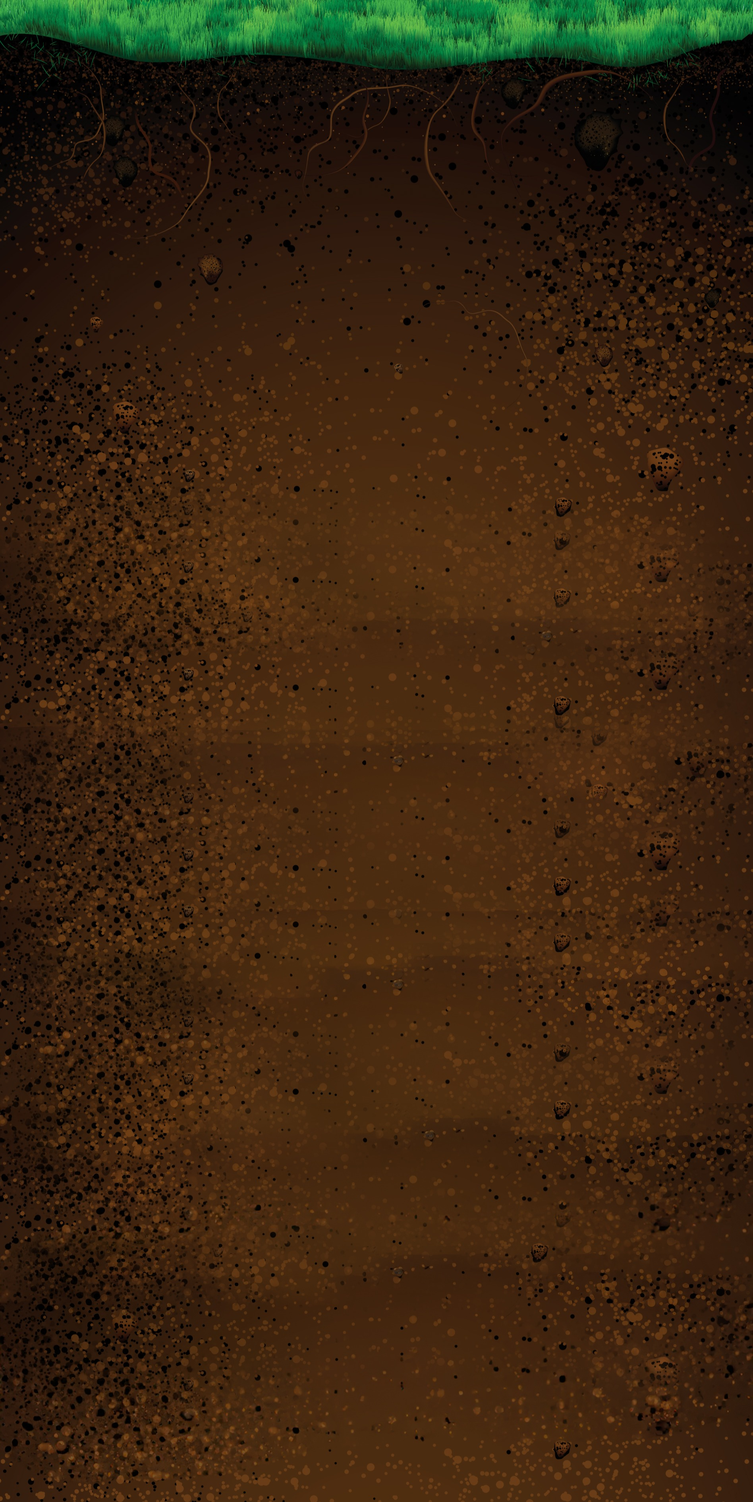
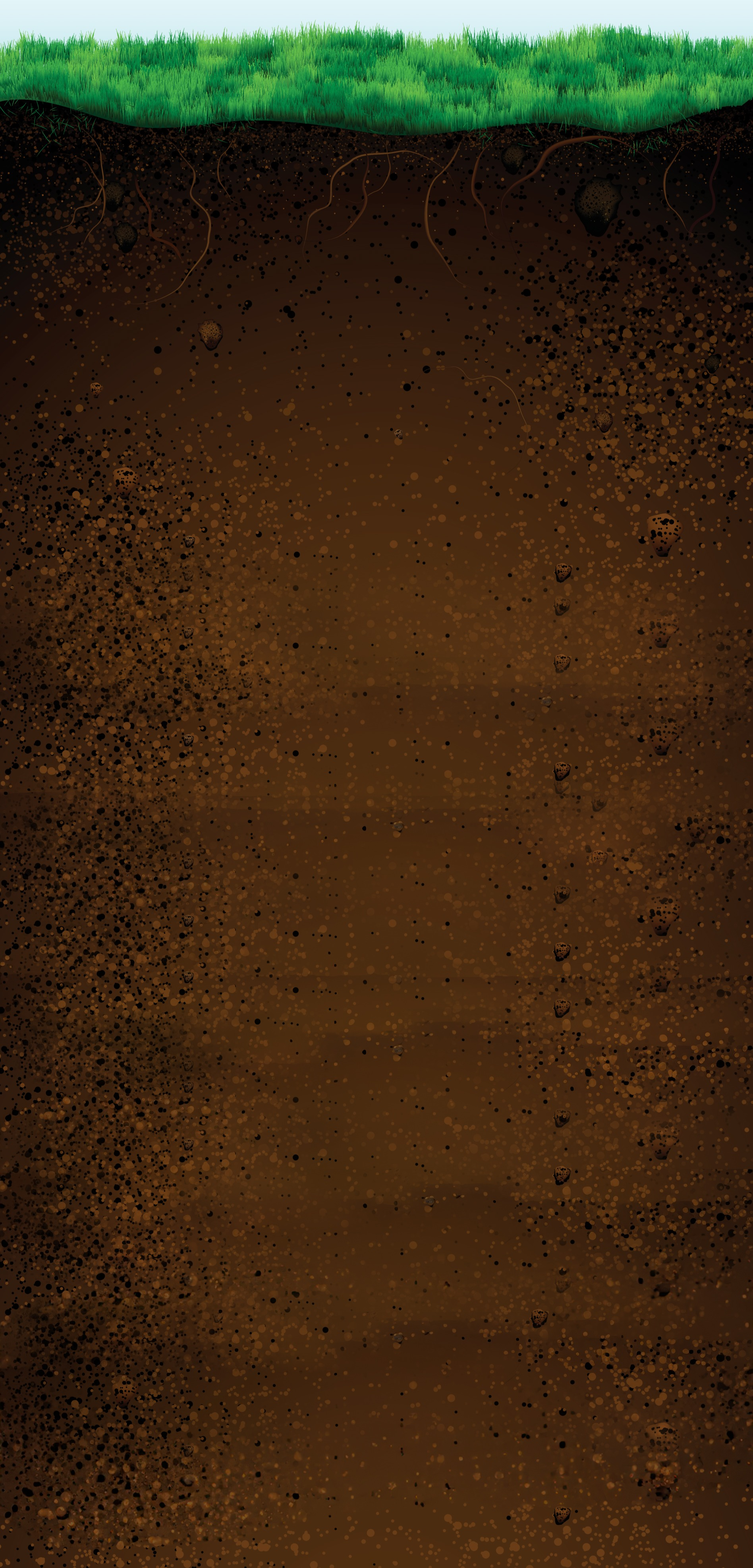
updating bg to be separated - skygrass png at splash, grassdirt after submit

diff --git a/frontend/src/App.tsx b/frontend/src/App.tsx
@@ -1,8 +1,9 @@
-import { useState, useRef, useEffect } from 'react';
+import { useState } from 'react';
 import { Input } from "./components/ui/input";
 import { Button } from "./components/ui/button";
 import plantsageLogo from './assets/plantsage_logo.PNG';
-import backgroundEarth from './assets/background_extended.jpg';
+import skyGrass from './assets/sky_grass.JPG';
+import grassDirt from './assets/grass_dirt.JPG';
 import './App.css';
 
 function App() {
@@ -11,42 +12,7 @@ function App() {
   const [isLoading, setIsLoading] = useState(false);
   const [plantTitle, setPlantTitle] = useState('');
   const [plantDescription, setPlantDescription] = useState('');
-  const [bgPositionY, setBgPositionY] = useState('');
-
-  const heroRef = useRef<HTMLDivElement | null>(null);
-  const containerRef = useRef<HTMLDivElement | null>(null);
-  const resultsRef = useRef<HTMLDivElement | null>(null);
-
-  useEffect(() => {
-    const img = new Image();
-    img.src = "/background_extended.jpg";
-    img.onload = () => {
-      const imageHeight = img.naturalHeight;
-      const desiredBottomY = 1400;
-      const screenHeight = window.innerHeight;
-      const initialOffsetPx = desiredBottomY - screenHeight;
-      const finalOffsetPercent = (initialOffsetPx / imageHeight) * 100;
-      setBgPositionY(`center ${finalOffsetPercent}%`);
-    };
-  }, []);
-
-  useEffect(() => {
-    if (!responseData || !containerRef.current) return;
-    const img = new Image();
-    img.src = "/background_extended.jpg";
-    img.onload = () => {
-      const imageHeight = img.naturalHeight;
-      const desiredBottomY = 2400;
-      const screenHeight = window.innerHeight;
-      const initialOffsetPx = desiredBottomY - screenHeight;
-      const oldHeight = heroRef.current?.offsetHeight || 0;
-      const newHeight = containerRef.current?.offsetHeight || oldHeight;
-      const deltaCenter = (newHeight - oldHeight) / 2;
-      const finalOffsetPx = initialOffsetPx + deltaCenter;
-      const finalOffsetPercent = (finalOffsetPx / imageHeight) * 100;
-      setBgPositionY(`center ${finalOffsetPercent}%`);
-    };
-  }, [responseData]);
+  const [submitted, setSubmitted] = useState(false);
 
   const handleSubmit = async () => {
     if (!plantName) return;
@@ -58,6 +24,7 @@ function App() {
       setPlantTitle(data.title || '');
       setPlantDescription(data.description || '');
       setResponseData(data);
+      setSubmitted(true);
     } catch (err) {
       console.error(err);
       setPlantTitle('');
@@ -119,9 +86,9 @@ function App() {
               </h3>
               <div className="divide-y divide-gray-200">
                 {Object.entries(responseData[section]).map(([key, value]) => (
-                  <div 
-                    key={key} 
-                    className="px-6 py-4" 
+                  <div
+                    key={key}
+                    className="px-6 py-4"
                     style={{ backgroundColor: sectionLightColors[section] }}
                   >
                     <div className="font-bold text-base text-gray-900 mb-2">
@@ -177,58 +144,55 @@ function App() {
 
   return (
     <div
-      ref={containerRef}
       style={{
-        backgroundImage: `url(${backgroundEarth})`,
-        backgroundPosition: bgPositionY,
+        backgroundImage: `url(${submitted ? grassDirt : skyGrass})`,
         backgroundSize: "cover",
-        backgroundAttachment: "scroll",
+        backgroundPosition: submitted? "top" : "bottom",
         backgroundRepeat: "no-repeat",
+        minHeight: "100vh",
       }}
     >
-      <div
-        ref={heroRef}
-        className="relative h-screen"
-      >
-        <div className="flex flex-col items-center justify-start h-full text-center pt-12 sm:pt-16">
-          <img src={plantsageLogo} alt="PlantSage Logo" className="w-28 h-28 mb-2" />
-          <h1 className="text-[3rem] font-bold text-[#2c4539] tracking-wide [text-shadow:1px_1px_2px_rgba(0,0,0,0.05)] font-['Playfair_Display'] mb-5">
-            Plant Sage
-          </h1>
-          <p className="text-[#2c4539] text-sm mb-8 italic font-medium">
-            Plant Smarter, Not Harder
-          </p>
-          <Input
-            type="text"
-            value={plantName}
-            onChange={(e) => setPlantName(e.target.value)}
-            placeholder="Enter your plant name..."
-            className="h-12 text-center px-4 py-3 rounded-2xl w-[260px] shadow-sm border border-[#18794e] bg-gray-50 placeholder:text-gray-500"
-          />
-          <Button
-            onClick={handleSubmit}
-            disabled={isLoading}
-            className={`mt-3 px-6 py-5 text-base text-white rounded-[10px] shadow transition-all duration-200 transform ${
-              isLoading ? "bg-[#2c4539]" : "bg-[#18794e] hover:bg-[#2c4539] hover:scale-105"
-            }`}
-          >
-            {isLoading ? (
-              <>
-                <svg className="animate-spin mr-2 h-4 w-4 text-white" xmlns="http://www.w3.org/2000/svg" fill="none" viewBox="0 0 24 24">
-                  <circle className="opacity-25" cx="12" cy="12" r="10" stroke="currentColor" strokeWidth="4" />
-                  <path className="opacity-75" fill="currentColor" d="M4 12a8 8 0 018-8v4l3-3-3-3v4a8 8 0 000 16v-4l-3 3 3 3v-4a8 8 0 01-8-8z" />
-                </svg>
-                Getting Plant Info...
-              </>
-            ) : (
-              "Get Care Tips"
-            )}
-          </Button>
-        </div>
+      <div className="flex flex-col items-center justify-start text-center pt-12 sm:pt-16">
+        {!submitted && (
+          <>
+            <img src={plantsageLogo} alt="PlantSage Logo" className="w-28 h-28 mb-2" />
+            <h1 className="text-[3rem] font-bold text-[#2c4539] tracking-wide [text-shadow:1px_1px_2px_rgba(0,0,0,0.05)] font-['Playfair_Display'] mb-5">
+              Plant Sage
+            </h1>
+            <p className="text-[#2c4539] text-sm mb-8 italic font-medium">
+              Plant Smarter, Not Harder
+            </p>
+          </>
+        )}
+        <Input
+          type="text"
+          value={plantName}
+          onChange={(e) => setPlantName(e.target.value)}
+          placeholder="Enter your plant name..."
+          className="h-12 text-center px-4 py-3 rounded-2xl w-[260px] shadow-sm border border-[#18794e] bg-gray-50 placeholder:text-gray-500"
+        />
+        <Button
+          onClick={handleSubmit}
+          disabled={isLoading}
+          className={`mt-3 px-6 py-5 text-base text-white rounded-[10px] shadow transition-all duration-200 transform ${
+            isLoading ? "bg-[#2c4539]" : "bg-[#18794e] hover:bg-[#2c4539] hover:scale-105"
+          }`}
+        >
+          {isLoading ? (
+            <>
+              <svg className="animate-spin mr-2 h-4 w-4 text-white" xmlns="http://www.w3.org/2000/svg" fill="none" viewBox="0 0 24 24">
+                <circle className="opacity-25" cx="12" cy="12" r="10" stroke="currentColor" strokeWidth="4" />
+                <path className="opacity-75" fill="currentColor" d="M4 12a8 8 0 018-8v4l3-3-3-3v4a8 8 0 000 16v-4l-3 3 3 3v-4a8 8 0 01-8-8z" />
+              </svg>
+              Getting Plant Info...
+            </>
+          ) : (
+            "Get Care Tips"
+          )}
+        </Button>
       </div>
-
       {responseData && !responseData.error && (
-        <div ref={resultsRef} className="flex flex-col items-center justify-center min-h-[120vh] text-center">
+        <div className="flex flex-col items-center justify-center text-center py-12">
           {renderTable()}
         </div>
       )}
